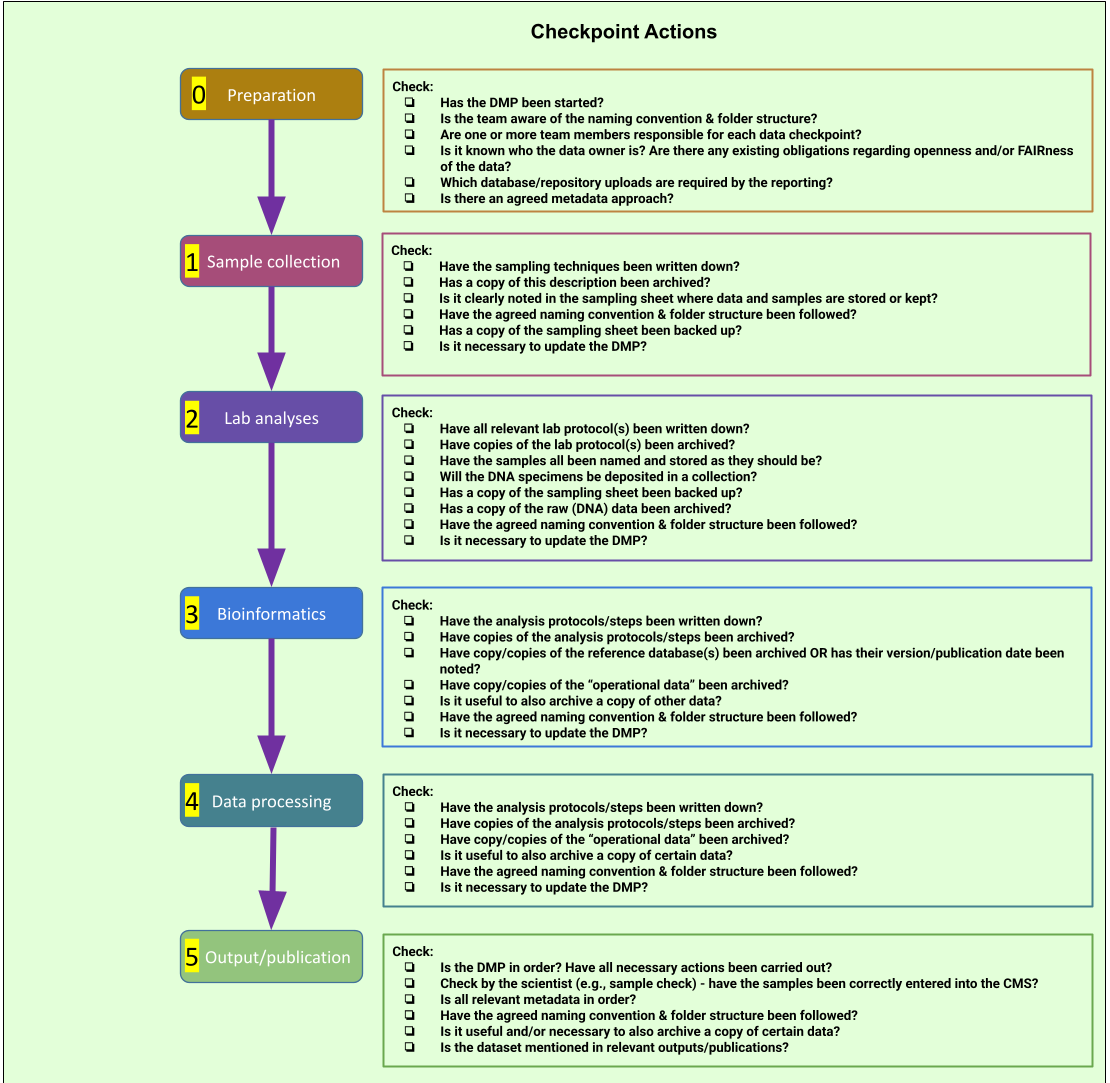
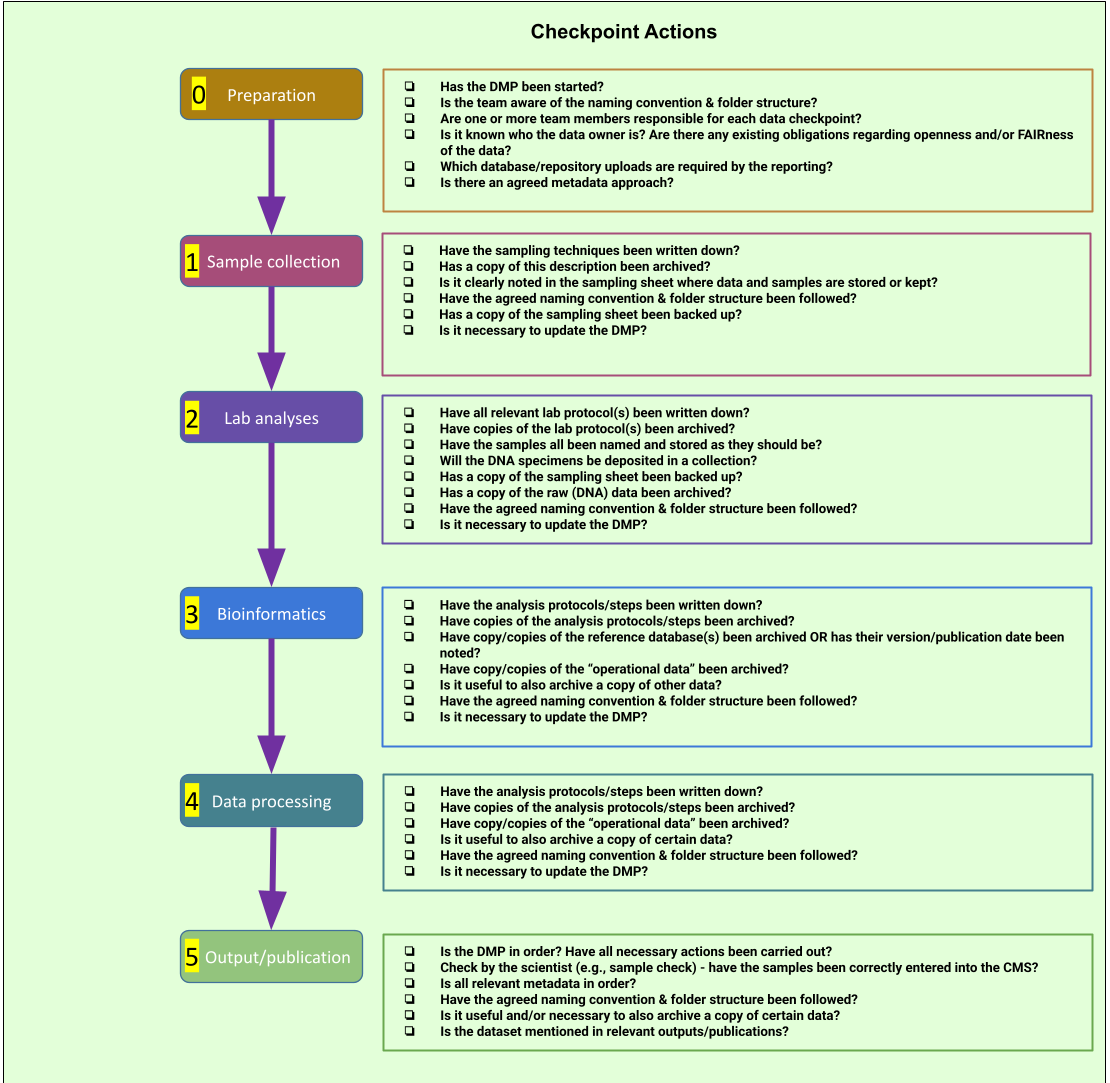
Improve checkpoints overview figure

diff --git a/pages/checkpoints.md b/pages/checkpoints.md
@@ -23,6 +23,45 @@ toc: true
 - Which database/repository uploads are required by the reporting?
 - Is there an agreed metadata approach?
 
+## Sample collection
+
+- Have the sampling techniques been written down?
+- Has a copy of this description been archived?
+- Is it clearly noted in the sampling sheet where data and samples are stored or kept?
+- Have the agreed naming convention & folder structure been followed?
+- Has a copy of the sampling sheet been backed up?
+- Is it necessary to update the DMP?
+
+## Lab analyses
+
+- Have all relevant lab protocol(s) been written down?  
+- Have copies of the lab protocol(s) been archived?
+- Have the samples all been named and stored as they should be? 
+- Will the DNA specimens be deposited in a collection?
+- Has a copy of the sampling sheet been backed up?
+- Has a copy of the raw (DNA) data been archived?
+- Have the agreed naming convention & folder structure been followed? 
+- Is it necessary to update the DMP?
+
+## Bioinformatics
+
+- Have the analysis protocols/steps been written down?
+- Have copies of the analysis protocols/steps been archived?
+- Have copy/copies of the reference database(s) been archived OR has their version/publication date been noted? 
+- Have copy/copies of the “operational data” been archived?
+- Is it useful to also archive a copy of other data?
+- Have the agreed naming convention & folder structure been followed?  
+- Is it necessary to update the DMP?
+
+## Dataprocessing
+
+- Have the analysis protocols/steps been written down?   
+- Have copies of the analysis protocols/steps been archived?
+- Have copy/copies of the “operational data” been archived?
+- Is it useful to also archive a copy of certain data?
+- Have the agreed naming convention & folder structure been followed? 
+- Is it necessary to update the DMP?
+
 
 
 